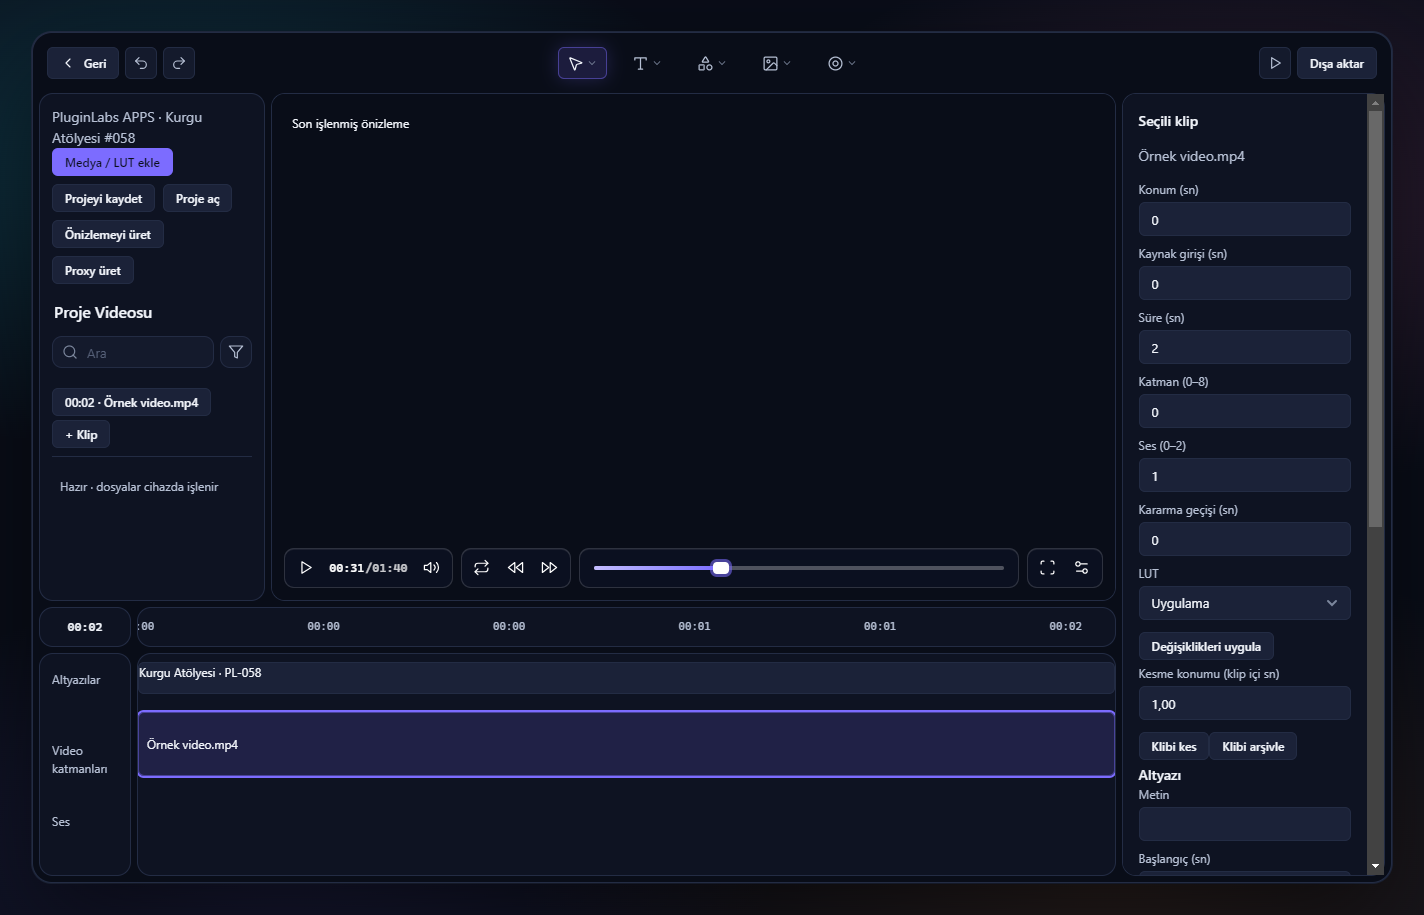
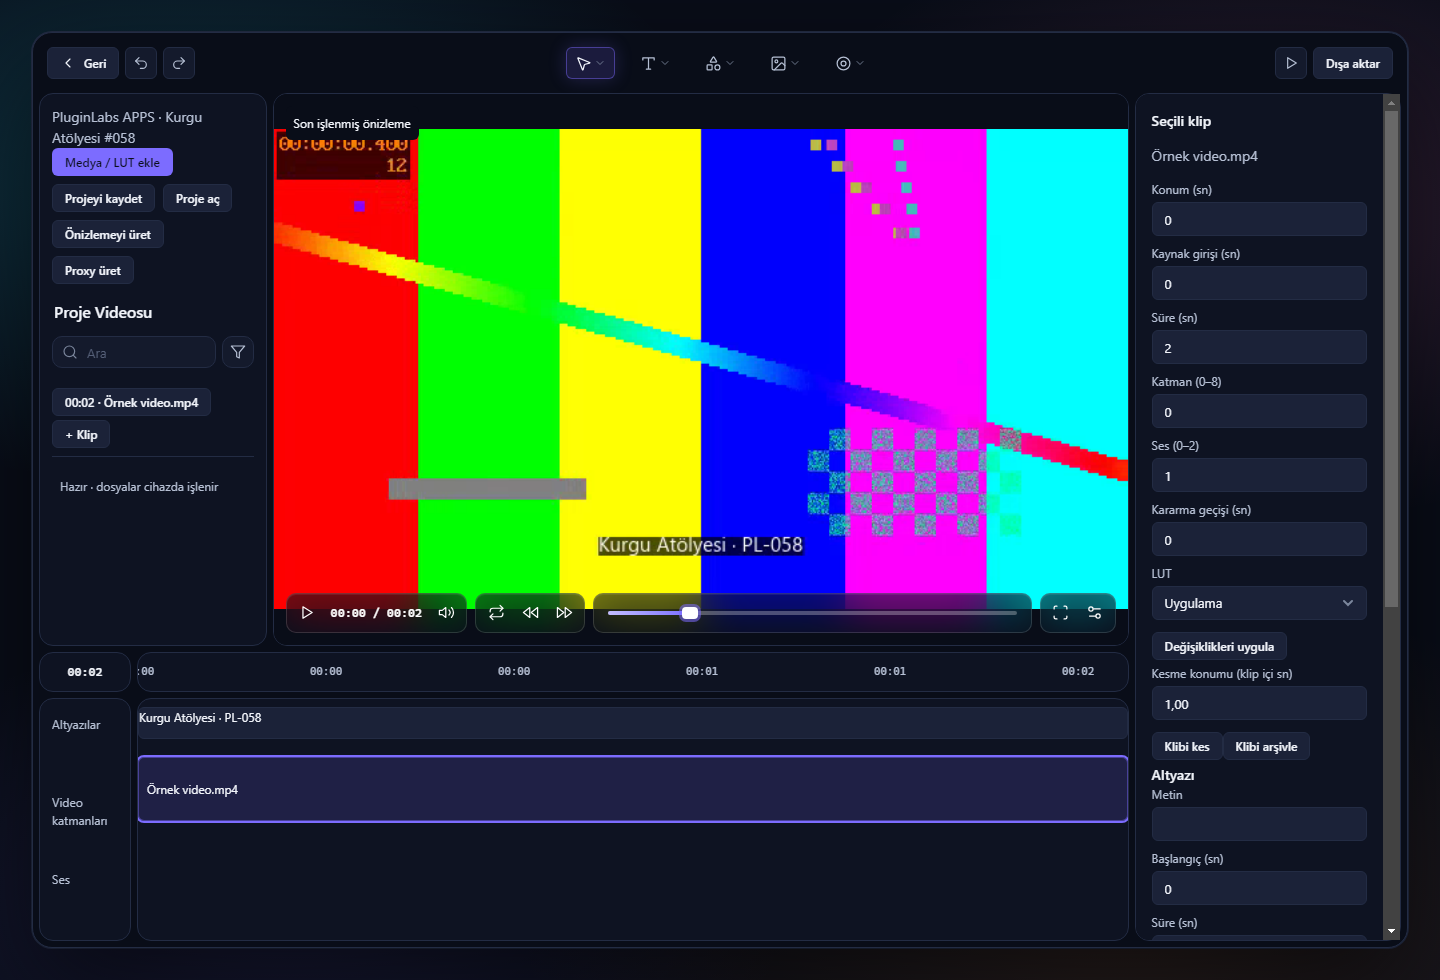
[PL-058] Native kare hazır oluşunu doğrula ve eski örnek süreyi kaldır

diff --git a/apps/07-yeni-urunler/PL-058-kurgu-atolyesi/ui/studio.js b/apps/07-yeni-urunler/PL-058-kurgu-atolyesi/ui/studio.js
@@ -58,6 +58,8 @@
     const scrub=e=>{const r=$('#pv-scrub').getBoundingClientRect();if(video.duration)video.currentTime=Math.max(0,Math.min(video.duration,(e.clientX-r.left)/r.width*video.duration));};
     $('#pv-scrub').onclick=scrub;$('#pv-scrub').onkeydown=e=>{if(['ArrowRight','ArrowLeft'].includes(e.key)){e.preventDefault();video.currentTime=Math.max(0,Math.min(video.duration||0,video.currentTime+(e.key==='ArrowRight'?1:-1)));}};
     video.ontimeupdate=()=>{const percent=video.currentTime/(video.duration||1)*100;$('#pv-time').textContent=`${time(video.currentTime)} / ${time(video.duration||0)}`;$('#pv-fill').style.width=percent+'%';$('#pv-knob').style.left=percent+'%';$('#pv-scrub').setAttribute('aria-valuenow',Math.round(percent));};
+    video.onloadedmetadata=video.ontimeupdate;
+    $('#pv-time').textContent=`00:00 / ${time(duration())}`;
     video.onerror=()=>report('Bu kaynak codec’i tarayıcıda açılamıyor. FFmpeg ile “Önizlemeyi üret” seçeneğini kullanın.');
     $('#lib-q').oninput=drawLibrary;$('#lib-filter').onclick=()=>{const b=$('#lib-filter');b.setAttribute('aria-pressed',b.getAttribute('aria-pressed')!=='true');drawLibrary();};
     $('.pl-kurgu-side').innerHTML='<section class="pl-kurgu-panel pl-studio-editor"><h2 class="pl-kurgu-h3">Seçili klip</h2><div id="clip-editor"></div><h3 class="pl-kurgu-h3">Altyazı</h3><form id="caption-form"><label>Metin<input class="pl-input" id="caption-text" required maxlength="2000"></label><label>Başlangıç (sn)<input class="pl-input" id="caption-start" type="number" min="0" step="0.1" value="0"></label><label>Süre (sn)<input class="pl-input" id="caption-duration" type="number" min="0.1" max="3600" step="0.1" value="3"></label><button class="pl-btn pl-btn--secondary pl-btn--sm">Altyazı ekle</button></form><div id="captions"></div><h3 class="pl-kurgu-h3">Render kuyruğu</h3><div id="render-jobs"></div><h3 class="pl-kurgu-h3">MyMind</h3><p class="pl-muted">Model bağlantısı kurulmadı. AI maske ve görsel üretimi kullanılamıyor. Temel kurgu cihazda çalışır.</p></section>';
